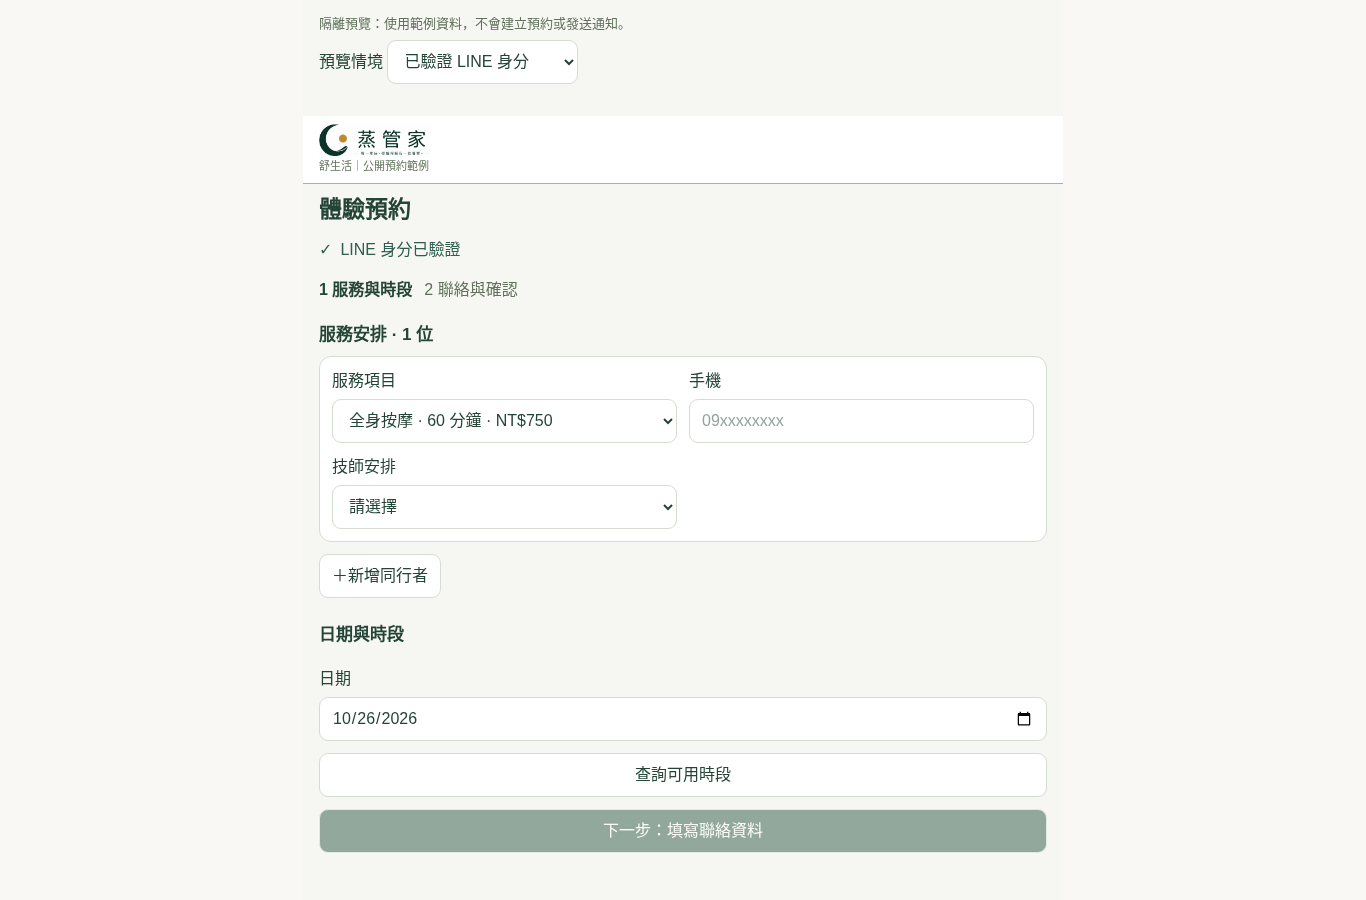
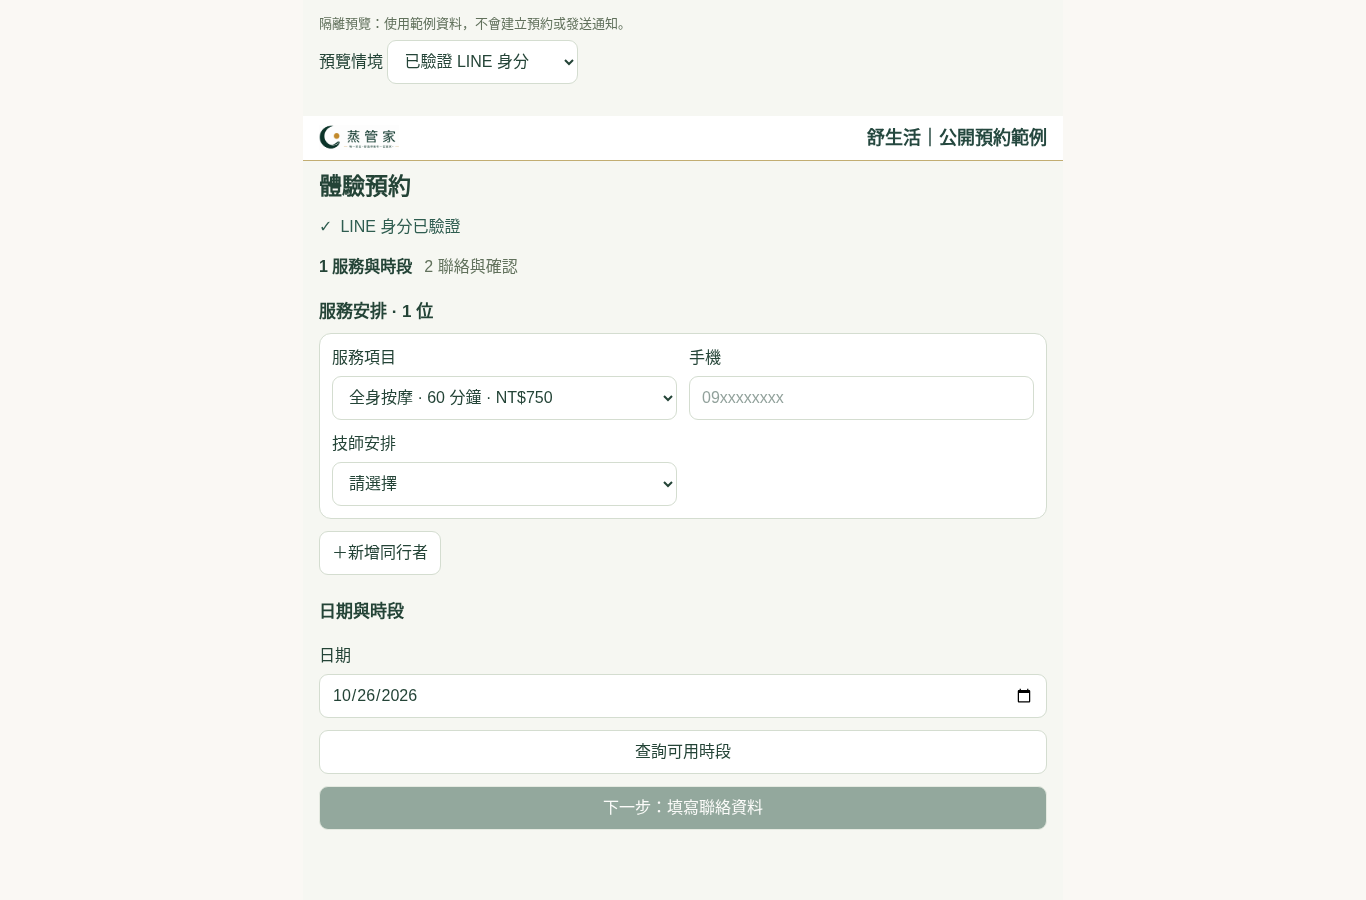
fix: emphasize booking store name at top right

Changed region(s): [[0.2152, 0.1244, 0.7687, 0.9644], [0.6149, 0.1244, 0.7687, 0.1867], [0.4919, 0.3733, 0.5842, 0.4978]]

diff --git a/src/components/beauty/public-booking-preview.tsx b/src/components/beauty/public-booking-preview.tsx
@@ -30,7 +30,7 @@ export function BeautyPublicBookingPreview() {
     <div className="cp-main"><p>隔離預覽：使用範例資料，不會建立預約或發送通知。</p>
       <label>預覽情境 <select aria-label="預覽情境" value={scenario} onChange={e => { attempts.current = 0; setScenario(e.target.value); }}><option value="single">單一服務</option><option value="verified">已驗證 LINE 身分</option><option value="link-pending">模擬連結待確認</option><option value="multiple">多項服務／長名稱</option><option value="retry">模擬送出結果未確認</option><option value="empty">尚無體驗服務</option><option value="closed">店家未開放</option></select></label>
     </div>
-    <header className="cp-top"><CoursePortalBrand storeName="舒生活｜公開預約範例"/></header>
+    <header className="cp-top"><CoursePortalBrand storeFirst storeName="舒生活｜公開預約範例"/></header>
     <main className="cp-main"><div className="cp-title"><h1>體驗預約</h1></div>
       <BeautyPublicBookingForm key={scenario} slug="synthetic" catalog={catalog} entry={verifiedIdentity ? "synthetic-verified-entry" : undefined} readSlots={read} submitTrial={submit} publicInfo={{ address: "範例地址（非實際營業地點）", contactUrl:"https://line.me/R/ti/p/@synthetic", mapUrl:"https://www.google.com/maps/dir/?api=1&destination=example", massageReminder: true, lineEntryHref:"https://liff.line.me/902-synthetic", lineIdentityVerified:verifiedIdentity }}/>
     </main>

diff --git a/src/components/course-portal-navigation.tsx b/src/components/course-portal-navigation.tsx
@@ -13,5 +13,8 @@ export function PortalIcon({ name }: { name: PortalIconName }) {
   };
   return <svg viewBox="0 0 24 24" fill="none" stroke="currentColor" strokeWidth="1.8" strokeLinecap="round" strokeLinejoin="round" aria-hidden>{paths[name]}</svg>;
 }
-export function CoursePortalBrand({storeName}:{storeName:string}) {return <div className="cp-brand"><SteamButlerLogo className="w-28"/><small>{storeName}</small></div>;}
+export function CoursePortalBrand({storeName,storeFirst=false}:{storeName:string;storeFirst?:boolean}) {
+  if(storeFirst)return <div aria-label="預約店家" className="flex w-full min-w-0 items-center justify-between gap-3"><SteamButlerLogo className="w-20 shrink-0"/><strong className="min-w-0 break-words text-right text-lg font-semibold text-primary-900">{storeName}</strong></div>;
+  return <div className="cp-brand"><SteamButlerLogo className="w-28"/><small>{storeName}</small></div>;
+}
 export function CoursePortalNavigation({items,current,onSelect,disabled=false}:{disabled?:boolean;items:{id:string;label:string;icon:PortalIconName}[];current:string;onSelect:(id:string)=>void}) {return <nav className="cp-nav" aria-label="主要功能">{items.map(item=><button key={item.id} disabled={disabled} aria-current={current===item.id?'page':undefined} onClick={()=>onSelect(item.id)}><PortalIcon name={item.icon}/>{item.label}</button>)}</nav>;}

diff --git a/src/app/beauty-trial/[slug]/page.tsx b/src/app/beauty-trial/[slug]/page.tsx
@@ -22,7 +22,7 @@ export default async function Page({
   const identity = typeof q.entry === "string" && q.entry.length <= 512 ? await resolveTrialBookingChatLink(q.entry) : null;
   const verified = identity?.storeId === data.store.id && identity.channel === "LINE";
   return (
-    <div className={`course-portal ${styles.page}`}><header className="cp-top"><CoursePortalBrand storeName={data.store.name}/></header><main className="cp-main"><div className="cp-title">
+    <div className={`course-portal ${styles.page}`}><header className="cp-top"><CoursePortalBrand storeFirst storeName={data.store.name}/></header><main className="cp-main"><div className="cp-title">
       <h1>體驗預約</h1>
       </div><BeautyBookingForm
         catalog={data}

diff --git a/docs/verification/canonical-liff-public-booking-20261026.md b/docs/verification/canonical-liff-public-booking-20261026.md
@@ -51,3 +51,10 @@ https://liff.line.me/2010761154-CmcQZ9Db/public-trial?bookingStore=soulife
 - `scripts/qa/beauty-public-booking-browser.mjs` 實際元件隔離驗收通過：360／390／768／1024／1366，輸入 16px、送出按鈕 44px、草稿與時段保留、第二頁回頂端、確認及連結待確認重試。
 - 已驗證狀態列於 390／768／1366 均小於等於 40px，沒有重複驗證按鈕；截圖 `evidence/20261026-canonical-liff/compact-verified-*.png`。
 - 均為封鎖外部請求、使用範例資料的隔離 Preview，不代表正式站或真人 LINE 驗收。
+
+
+## 追加：右上角店名與發布授權
+
+使用者已同意發布 PR #1433，並要求店名置於右上角明顯處。美業公開體驗頂列改用右側 18px 粗體完整店名、左側小型品牌標誌；長名稱允許換行。其他使用共用品牌元件的頁面保留原樣。
+
+3 個美業表單／預覽測試檔 28 項通過；實際元件隔離預覽於 390／768／1366 核對店名字級至少 18px、無水平溢出，原有預約流程亦通過。更新截圖已覆蓋 `compact-verified-*.png`。此為隔離 Preview，真人 LINE 流程仍待實測。
